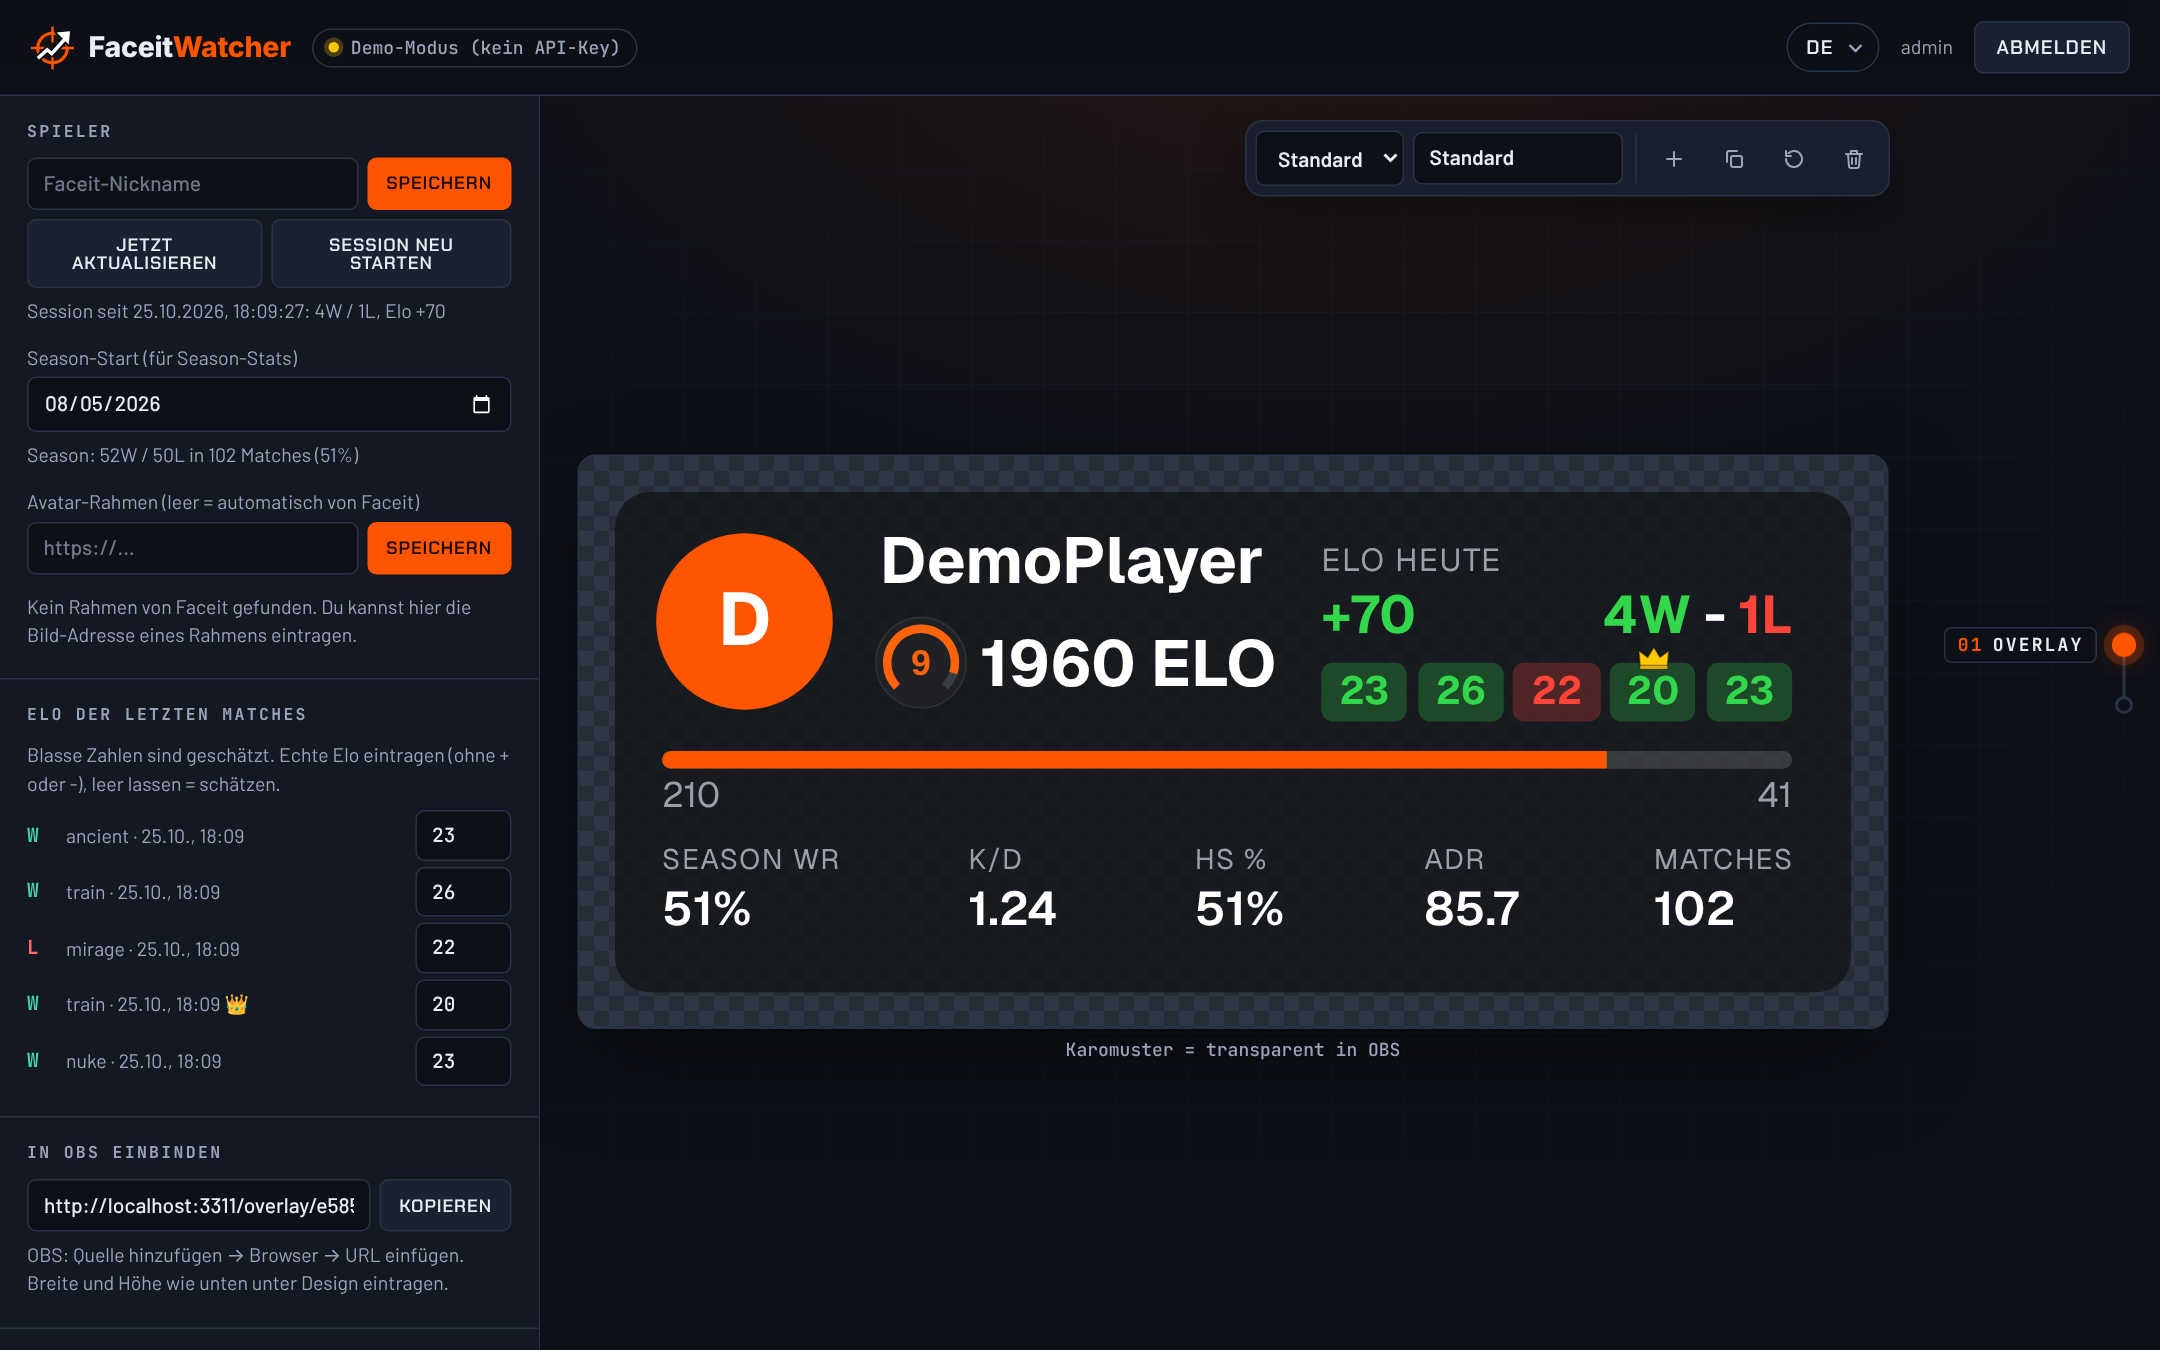
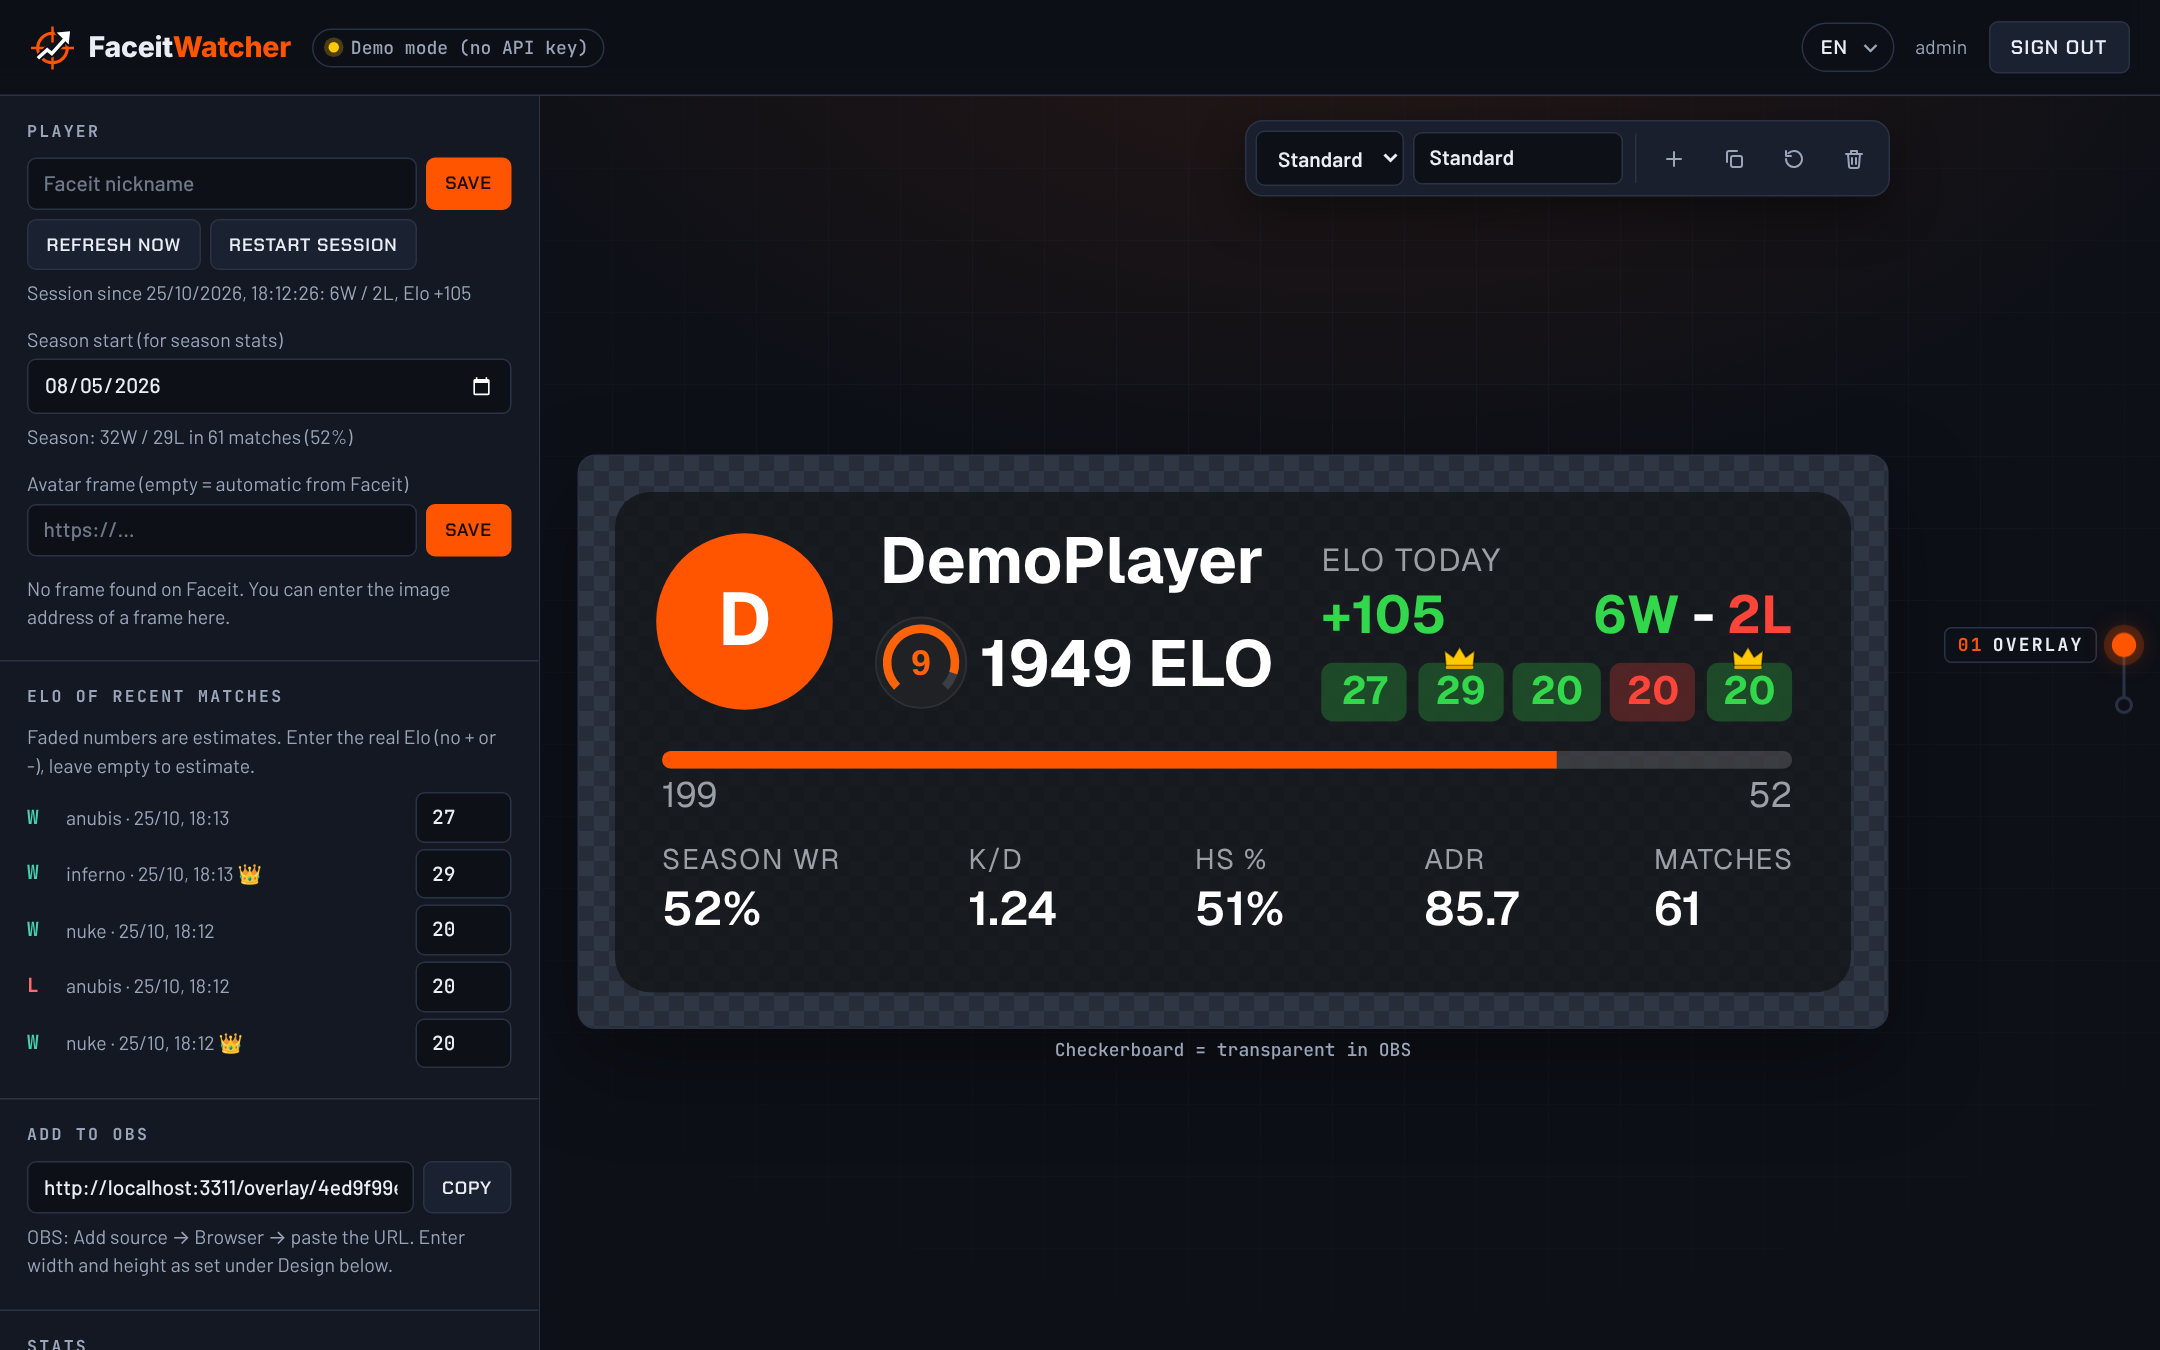
README in English, screenshots with the English UI

diff --git a/README.md b/README.md
@@ -5,40 +5,40 @@
   </picture>
 </h1>
 
-Eigene Faceit-Overlays (Elo, Level, K/D, Session-Stats, …) für OBS bauen und selbst hosten. Der Server fragt Faceit ab und speichert deine Statistiken, im Editor gestaltest du das Overlay, OBS zeigt es als Browserquelle.
+Build your own Faceit overlays (Elo, level, K/D, session stats, …) for OBS and host them yourself. The server polls Faceit and stores your statistics, you design the overlay in the editor, and OBS shows it as a browser source.
 
 <p align="center">
-  <img src="docs/screenshots/overlay.png" alt="Fertiges Overlay, wie es in OBS erscheint" width="420">
+  <img src="docs/screenshots/overlay.png" alt="Finished overlay as it appears in OBS" width="420">
 </p>
 
-## So sieht es aus
+## What it looks like
 
-**Editor:** Overlay live gestalten, Elemente per Drag & Drop verschieben, OBS-Link kopieren.
+**Editor:** design the overlay live, drag elements into place, copy the OBS link.
 
-![Editor mit Overlay-Vorschau](docs/screenshots/editor.png)
+![Editor with overlay preview](docs/screenshots/editor.png)
 
-**Stats an- und abwählen:** Jede Kennzahl lässt sich einzeln ein- und ausblenden, Reihenfolge, Schrift und Farben stellst du unter **Design** ein.
+**Pick your stats:** every stat can be shown or hidden on its own and reordered. Fonts and colours are set under **Design**.
 
-![Editor mit Stats-Auswahl](docs/screenshots/editor-anpassen.png)
+![Editor with the stats list](docs/screenshots/editor-widgets.png)
 
-**Statistiken:** Elo-Verlauf der letzten 20 Matches, aktuelle Season und alle Faceit-Level im Überblick.
+**Statistics:** Elo history of your last 20 matches, the current season and all Faceit levels at a glance.
 
-![Statistik-Ansicht mit Elo-Verlauf und Season](docs/screenshots/statistiken.png)
+![Statistics view with Elo history and season](docs/screenshots/stats.png)
 
-Alle Screenshots zeigen den Demo-Modus mit Beispieldaten.
+All screenshots show demo mode with sample data. The editor is available in English, German, Russian and French.
 
-## Voraussetzungen
+## Requirements
 
-- [Node.js](https://nodejs.org) 22.13 oder neuer
-- Ein Faceit API-Key (ohne Key läuft alles im Demo-Modus mit Beispieldaten)
+- [Node.js](https://nodejs.org) 22.13 or newer
+- A Faceit API key (without a key everything runs in demo mode with sample data)
 
-## Faceit API-Key holen
+## Getting a Faceit API key
 
-1. Auf [developers.faceit.com](https://developers.faceit.com) einloggen.
-2. Im **App Studio** eine App anlegen.
-3. Unter **API Keys** einen Key vom Typ **Server side** erstellen.
+1. Log in at [developers.faceit.com](https://developers.faceit.com).
+2. Create an app in the **App Studio**.
+3. Under **API Keys**, create a key of type **Server side**.
 
-## Einrichten und starten
+## Setup and start
 
 ```bash
 git clone https://github.com/Fersehet/FaceitWatcher.git
@@ -47,30 +47,30 @@ npm install
 cp .env.example .env   # Windows: copy .env.example .env
 ```
 
-In `.env` mindestens eintragen:
+Put at least this into `.env`:
 
 ```env
-FACEIT_API_KEY=dein-key
-ADMIN_PASSWORD=ein-langes-passwort
+FACEIT_API_KEY=your-key
+ADMIN_PASSWORD=a-long-password
 ```
 
-Dann starten:
+Then start it:
 
 ```bash
 npm start
 ```
 
-Im Browser **http://localhost:3000** öffnen und mit Benutzer `admin` und deinem Passwort anmelden. Im Editor deinen Faceit-Nickname eintragen und das Overlay gestalten.
+Open **http://localhost:3000** in your browser and sign in with user `admin` and your password. Enter your Faceit nickname in the editor and design your overlay.
 
-## In OBS einbinden
+## Adding it to OBS
 
-1. Im Editor bei **In OBS einbinden** die URL kopieren, z. B. `http://localhost:3000/overlay/abcd1234`.
-2. In OBS **Quelle hinzufügen → Browser** wählen und die URL einfügen.
-3. Breite und Höhe wie im Editor unter **Design** eintragen.
+1. In the editor under **Add to OBS**, copy the URL, e.g. `http://localhost:3000/overlay/abcd1234`.
+2. In OBS choose **Add source → Browser** and paste the URL.
+3. Enter the width and height shown in the editor under **Design**.
 
-Läuft der Server auf einem anderen Rechner, statt `localhost` dessen IP verwenden. Overlays sind ohne Login lesbar, der Editor nicht.
+If the server runs on another machine, use its IP instead of `localhost`. Overlays can be read without signing in, the editor cannot.
 
-## Update
+## Updating
 
 ```bash
 git pull
@@ -78,4 +78,4 @@ npm install
 npm start
 ```
 
-Deine Overlays und Statistiken liegen in `data/` und bleiben erhalten. Weitere Einstellungen (Port, Abfrage-Intervall, Speicherort) stehen in `.env.example`.
+Your overlays and statistics live in `data/` and are kept. More settings (port, poll interval, storage location) are listed in `.env.example`.
